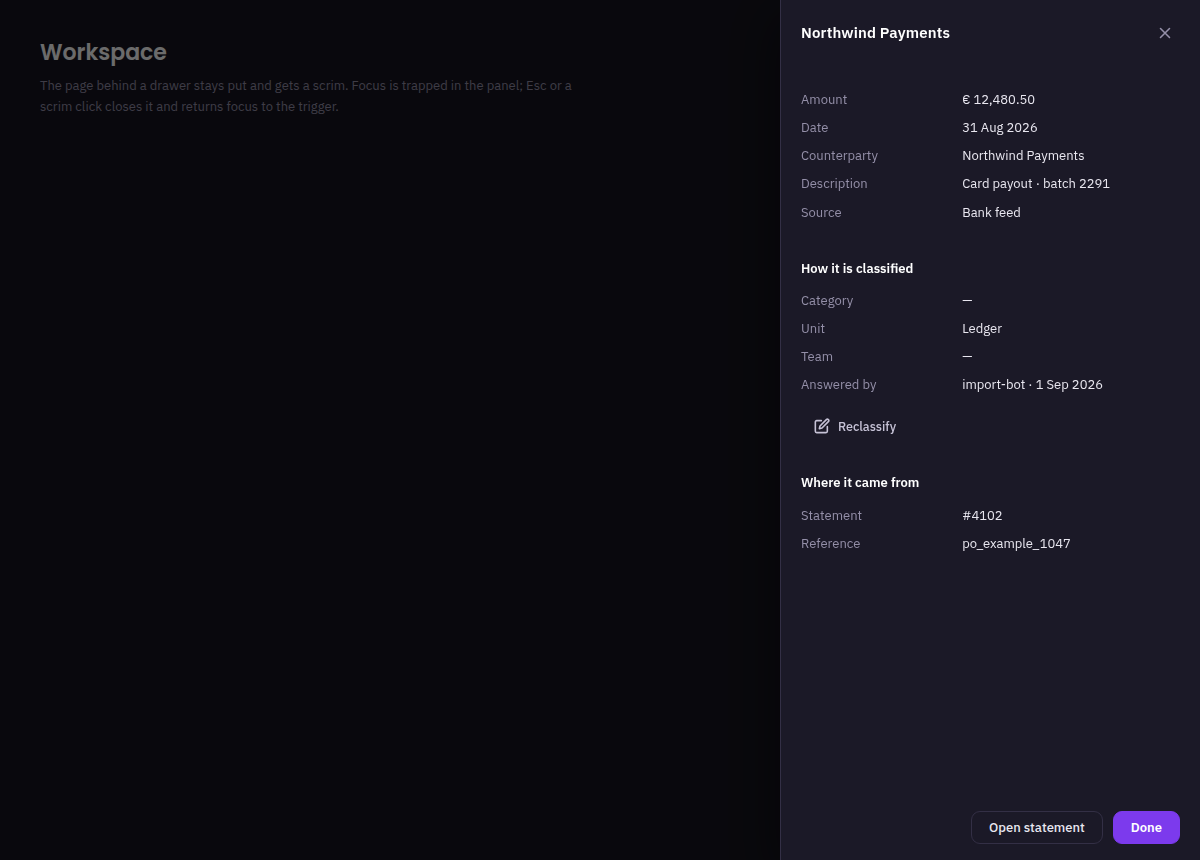
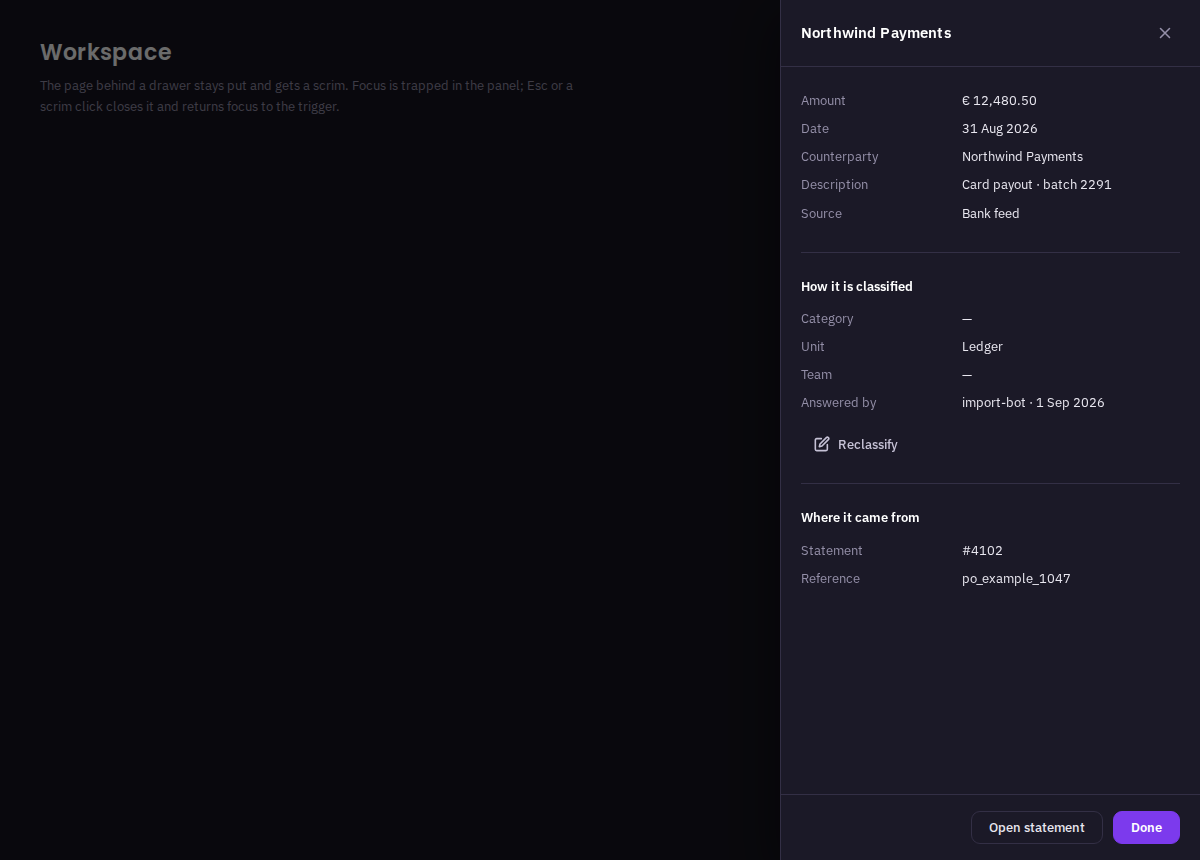
The drawer's default is B: the header's line, the footer's, and one between groups
Artur picked B over A on 2026-09-11, from the rendered variants. A drawer's
normal state is a long record scrolling under its header, and B is the one
variant that stays framed while it does.

The header and footer keep the rules they had on main, so that part of the
drawer is unchanged from before this branch. Inside the body one rule parts a
group from the group above it, inset by the body's padding; rows are still held
apart by space alone.

The gate reads the three lines in both directions now. A ruled row, an <hr>, a
card and an edge the body draws for itself still fail; so does the header's
line gone, the footer's gone, or a group with none above it. The group
separator is the one border it excepts, and only a top edge with no bottom one
counts as that. Four mutations run on this tree turn it red: the separator
deleted, the header's rule deleted, a rule under every row, and a box around
every group.

Every drawer evidence image that showed the shipped look is re-shot in both
themes, from the same stories, in Chrome.

Claude-Session: https://claude.ai/code/session_0175m4WP2k4H47LWVnAmsHXA

diff --git a/stories/drawer-rules.test.js b/stories/drawer-rules.test.js
@@ -1,13 +1,15 @@
-/* Rule: nothing inside a drawer panel draws a line or a box of its own (#272) — no
- * card, no ruled row, no <hr>, and no line between the header, the body and the footer.
+/* Rule: a drawer panel draws three lines and no others (#272) — one under its header,
+ * one over its footer, and one between each group and the next. No card, no ruled row,
+ * no <hr>, and no edge the body draws for itself.
  *
  * Every story is rendered in both themes into a jsdom carrying the kit's stylesheets,
  * and every panel that comes out is measured, cascade resolved. A card is `.ui-card`,
  * or any box inside the panel with all four edges drawn that is not a form control or
  * a button and does not sit inside one. A ruled row is anything else inside the panel
- * with a line on its top or bottom edge that does not also draw both sides. The lines
- * between the parts are the header's bottom edge, the footer's top edge and the body's
- * top and bottom edges.
+ * with a line on its top or bottom edge that does not also draw both sides — the group
+ * separator excepted, which is a `.ui-drawer__section` following another and drawing a
+ * line on its top edge alone. The gate reads the three lines both ways: a line the
+ * panel should not draw fails, and so does one of the three gone missing.
  *
  * jsdom drops logical border properties, so `border-block-end` computes to nothing:
  * they are rewritten to physical ones before any CSS goes in, for the horizontal,
@@ -15,6 +17,8 @@
  *
  * Ledger, what a pass does not say:
  * - Nothing about a drawer a consumer fills outside this repo.
+ * - Nothing about how far apart the groups sit, or how heavy the three lines are: this
+ *   reads whether a border is drawn, not the space or the colour around it.
  * - A line drawn by an inset box-shadow, an outline, a background or a pseudo-element
  *   is not read: jsdom computes no style for ::before or ::after.
  * - A logical border is read as horizontal, left-to-right writing puts it; in a
@@ -92,37 +96,61 @@ const CONTROL = 'input, select, textarea, button, a[href], [role="button"], [rol
   + '[role="radio"], [role="textbox"], [role="combobox"], [contenteditable]';
 const SLOT = '.ui-drawer__header, .ui-drawer__body, .ui-drawer__footer';
 
-/** What one panel draws inside itself, as plain data. */
+/** A group that follows another group: the one element inside the body allowed a line. */
+const follows = (el) => el.classList.contains('ui-drawer__section')
+  && !!el.previousElementSibling?.classList?.contains('ui-drawer__section');
+
+/** What one panel draws inside itself, and what it fails to draw, as plain data. */
 function measure(win, panel, where) {
   const style = (el) => win.getComputedStyle(el);
   const inside = [...panel.querySelectorAll('*')].filter((el) => !el.matches(SLOT));
   const hr = (el) => el.tagName === 'HR' && style(el).display !== 'none';
   const edge = (sel, side, said) => [...panel.querySelectorAll(sel)].filter((el) => drawn(style(el), side)).map(() => said);
+  const lacks = (sel, side, said) => [...panel.querySelectorAll(sel)].filter((el) => !drawn(style(el), side)).map(() => said);
+  // A group separator is a line on the top edge and nothing else. A group that draws
+  // its bottom edge too puts two lines in one gap, so it stays a ruled row.
+  const separator = (el) => follows(el) && drawn(style(el), 'top') && !drawn(style(el), 'bottom');
   return {
     where,
     cards: inside
       .filter((el) => el.classList.contains('ui-card') || (!hr(el) && !el.closest(CONTROL) && fourSided(style(el))))
       .map((el) => selectorPath(el)),
-    ruledRows: inside.filter((el) => hr(el) || isRule(style(el))).map((el) => selectorPath(el)),
-    edges: [
-      ...edge('.ui-drawer__header', 'bottom', 'a line under the header'),
-      ...edge('.ui-drawer__body', 'top', 'a line on the body\'s top edge, under the header'),
-      ...edge('.ui-drawer__body', 'bottom', 'a line on the body\'s bottom edge, over the footer'),
-      ...edge('.ui-drawer__footer', 'top', 'a line over the footer'),
+    ruledRows: inside
+      .filter((el) => hr(el) || (isRule(style(el)) && !separator(el)))
+      .map((el) => selectorPath(el)),
+    strayEdges: [
+      ...edge('.ui-drawer__body', 'top', 'a line on the body\'s top edge, under the header\'s own'),
+      ...edge('.ui-drawer__body', 'bottom', 'a line on the body\'s bottom edge, under the footer\'s own'),
     ],
+    unframed: [
+      ...lacks('.ui-drawer__header', 'bottom', 'a header with no line under it'),
+      ...lacks('.ui-drawer__footer', 'top', 'a footer with no line over it'),
+    ],
+    unparted: inside.filter((el) => follows(el) && !drawn(style(el), 'top')).map((el) => selectorPath(el)),
   };
 }
 
+// Two groups, the shape the separator is about, for the faults that need one.
+const GROUPS = '<section class="ui-drawer__section"><h3 class="ui-drawer__section-title">One</h3>'
+  + '<dl class="ui-drawer__rows"><div class="ui-drawer__row"><dt>Amount</dt><dd>12.00</dd></div></dl></section>'
+  + '<section class="ui-drawer__section"><h3 class="ui-drawer__section-title">Two</h3>'
+  + '<dl class="ui-drawer__rows"><div class="ui-drawer__row"><dt>Source</dt><dd>Bank feed</dd></div></dl></section>';
+
 // Each fault written on purpose, so a pass reads "looked, and found none" rather than
-// "could not see". Drawn the way a page would draw it by hand, one per panel.
+// "could not see". Drawn the way a page would draw it by hand, one per panel. The last
+// three take a line away instead of adding one: the header's, the footer's and the one
+// between the groups are the three this drawer is supposed to have.
 const FAULTS = [
-  { fault: 'a line under the header', kind: 'edges', css: '.zz-fault .ui-drawer__header { border-bottom: 1px solid var(--border); }' },
-  { fault: 'a line over the footer', kind: 'edges', css: '.zz-fault .ui-drawer__footer { border-top: 1px solid var(--border); }' },
-  { fault: 'a line on the body\'s top edge', kind: 'edges', css: '.zz-fault .ui-drawer__body { border-top: 1px solid var(--border); }' },
-  { fault: 'a logical line under the header', kind: 'edges', css: '.zz-fault .ui-drawer__header { border-block-end: 1px solid var(--border); }' },
+  { fault: 'a line on the body\'s top edge', kind: 'strayEdges', css: '.zz-fault .ui-drawer__body { border-top: 1px solid var(--border); }' },
+  { fault: 'a rule under every row', kind: 'ruledRows', body: GROUPS, css: '.zz-fault .ui-drawer__row dt, .zz-fault .ui-drawer__row dd { border-bottom: 1px solid var(--border); }' },
+  { fault: 'a logical rule under a group', kind: 'ruledRows', body: GROUPS, css: '.zz-fault .ui-drawer__section { border-block-end: 1px solid var(--border); }' },
+  { fault: 'a rule over the first group, where there is nothing to part it from', kind: 'ruledRows', body: GROUPS, css: '.zz-fault .ui-drawer__section { border-top: 1px solid var(--border); }' },
   { fault: 'a ruled title', kind: 'ruledRows', css: '.zz-fault .ui-drawer__title { border-bottom: 1px solid var(--border); }' },
   { fault: 'an <hr> in the body', kind: 'ruledRows', body: '<p>Above</p><hr><p>Below</p>' },
   { fault: 'a box drawn by hand', kind: 'cards', body: '<div style="border: 1px solid var(--border); padding: 12px">Boxed</div>' },
+  { fault: 'the header\'s line taken away', kind: 'unframed', css: '.zz-fault .ui-drawer__header { border-bottom: 0; }' },
+  { fault: 'the footer\'s line taken away', kind: 'unframed', css: '.zz-fault .ui-drawer__footer { border-top: 0; }' },
+  { fault: 'the line between the groups taken away', kind: 'unparted', body: GROUPS, css: '.zz-fault .ui-drawer__section + .ui-drawer__section { border-top: 0; }' },
 ];
 
 /** Every drawer panel in every story, split into subjects and don'ts, and the faults. */
@@ -213,16 +241,27 @@ for (const theme of THEMES) {
       offences, [],
       'an element inside a drawer draws a rule on its top or bottom edge, or is an <hr>. Rows are held '
       + 'apart by space, and each value sits beside its label so nothing has to lead the eye '
-      + 'across:\n  ' + offences.join('\n  '),
+      + 'across. The one line the body draws parts a group from the group above it:\n  '
+      + offences.join('\n  '),
     );
   });
 
-  test(`[${theme}] no drawer draws a line between its header, body and footer`, () => {
-    const offences = subjects.flatMap((s) => s.edges.map((e) => `${s.where}  ${e}`));
+  test(`[${theme}] every drawer is framed: a line under the header, one over the footer, none the body draws`, () => {
+    const offences = subjects.flatMap((s) => [...s.unframed, ...s.strayEdges].map((e) => `${s.where}  ${e}`));
     assert.deepStrictEqual(
       offences, [],
-      'a drawer draws a line between its header or footer and its body. The panel\'s edge is the '
-      + 'only line a drawer draws:\n  ' + offences.join('\n  '),
+      'a drawer has lost the line under its header or over its footer, or the body has drawn an edge of '
+      + 'its own. Those two lines are what say where a scrolling body ends, and they belong to the '
+      + 'header and the footer:\n  ' + offences.join('\n  '),
+    );
+  });
+
+  test(`[${theme}] one line parts each group from the group above it`, () => {
+    const offences = subjects.flatMap((s) => s.unparted.map((p) => `${s.where}  ${p}`));
+    assert.deepStrictEqual(
+      offences, [],
+      'a group follows another group with no line between them. A heading and space alone leave a long '
+      + 'record with nothing to divide it:\n  ' + offences.join('\n  '),
     );
   });
 

diff --git a/stories/guidelines/_drawer.js b/stories/guidelines/_drawer.js
@@ -4,7 +4,7 @@ import { drawer, drawerSection } from '../../src/components/drawer.js';
 
 export const TITLE = 'Drawers';
 
-export const BLURB = 'When to open a panel over the list, and how little it needs to separate its parts.';
+export const BLURB = 'When to open a panel over the list, and how few lines it needs to separate its parts.';
 
 // A drawer is position: fixed, so each specimen is held inside a frame of its
 // own. The panel is narrowed so a strip of scrim shows beside it: a drawer with
@@ -54,8 +54,8 @@ export const RULES = [
     imperative: 'Group a drawer\'s content under headings. Never put a card inside one.',
     doHtml: () => frame(GROUPS.map((g) => drawerSection(g)).join('')),
     dontHtml: () => frame(GROUPS.map((g) => card({ body: drawerSection(g) })).join('')),
-    doCaption: 'Three groups, each a heading over its rows. The panel is the container, and a '
-      + 'heading is all the structure a group needs inside it.',
+    doCaption: 'Three groups, each a heading over its rows, parted by one line. The panel is the '
+      + 'container, and a heading is all the structure a group needs inside it.',
     dontCaption: 'The same groups, each in a card: a box inside the panel\'s box, and every card '
       + 'edge is one more line to read past.',
     why: 'The panel already has an edge, a surface and a shadow, which is everything a card would '
@@ -64,18 +64,23 @@ export const RULES = [
       + 'bordered cards stacked in a bordered panel.',
     kit: [
       { ref: 'src/components/drawer.js:88', pattern: 'export function drawerSection(' },
-      { ref: 'src/styles/drawer.css:177', pattern: '.ui-drawer__section + .ui-drawer__section' },
+      { ref: 'src/styles/drawer.css:185', pattern: '.ui-drawer__section + .ui-drawer__section' },
     ],
   },
   {
-    id: 'no-lines',
-    imperative: 'Draw no line inside the panel. Its edge is the only one.',
-    why: 'Not under the header, not over the footer, not between groups. The report in #272 was '
-      + 'about the lines, and every one of them was a line inside the panel. Fluent and shadcn draw '
-      + 'no header or footer rule; Primer draws its footer rule only when the body scrolls. The kit '
-      + 'takes the quiet side: the header holds its place by spacing and weight, and a long body '
-      + 'scrolls under it.',
-    kit: [{ ref: 'src/styles/drawer.css:110', pattern: '.ui-drawer__header {' }],
+    id: 'three-lines',
+    imperative: 'Draw three lines: under the header, over the footer, and one between each group '
+      + 'and the next. Draw no others.',
+    why: 'A drawer\'s normal state is a long record scrolling, and the two lines the header and '
+      + 'the footer hold are what say where that scrolling stops. Take them away and the first row '
+      + 'slides under the title with nothing to meet. Inside the body the line has one job left, '
+      + 'which is parting a group from the group above it; a rule under every row is the fault #272 '
+      + 'reported. Ant and Primer keep a header and footer rule, Primer\'s once the body scrolls; '
+      + 'Material draws a divider between unrelated sections and none inside one.',
+    kit: [
+      { ref: 'src/styles/drawer.css:114', pattern: '.ui-drawer__header {' },
+      { ref: 'src/styles/drawer.css:185', pattern: '.ui-drawer__section + .ui-drawer__section {' },
+    ],
   },
   {
     id: 'rows',
@@ -96,7 +101,7 @@ export const RULES = [
       + 'table() and right-align them there.',
     kit: [
       { ref: 'src/components/drawer.js:92', pattern: '<dl class="ui-drawer__rows">' },
-      { ref: 'src/styles/drawer.css:200', pattern: '.ui-drawer__row dt { color: var(--muted); }' },
+      { ref: 'src/styles/drawer.css:212', pattern: '.ui-drawer__row dt { color: var(--muted); }' },
     ],
   },
 ];

diff --git a/src/styles/drawer.css b/src/styles/drawer.css
@@ -107,12 +107,17 @@
 .ui-drawer--top.ui-drawer--lg, .ui-drawer--bottom.ui-drawer--lg { --drawer-h: 72vh; }
 
 /* -- Slots ----------------------------------------------------------------- */
+/* The header keeps its rule, and the footer keeps its. A drawer's normal state is a
+   long record scrolling, and those two lines are what say where the scrolling body
+   ends: the one place inside the panel a line still earns.
+   why: docs/specification.md#the-drawer */
 .ui-drawer__header {
   display: flex;
   align-items: center;
   justify-content: space-between;
   gap: 12px;
   padding: 18px 20px;
+  border-bottom: 1px solid var(--border);
   flex: none;
 }
 /* An h2, and base.css would give it the display face. It opts out: at 15px in a
@@ -165,6 +170,7 @@
   justify-content: flex-end;
   gap: 10px;
   padding: 16px 20px;
+  border-top: 1px solid var(--border);
   background: var(--surface-2);
   flex: none;
 }
@@ -172,9 +178,15 @@
 /* -- Groups and rows ------------------------------------------------------- */
 /* drawerSection(): a heading over label/value rows. The value sits beside its
    label rather than at the far edge, so nothing has to lead the eye across the
-   panel, and rows are held apart by space alone.
+   panel, and rows are held apart by space alone. Group from group is the one
+   division inside the body worth a line; the body's padding insets it, so it
+   parts the groups without cutting the panel in two.
    why: docs/specification.md#the-drawer */
-.ui-drawer__section + .ui-drawer__section { margin-top: var(--space-8); }
+.ui-drawer__section + .ui-drawer__section {
+  margin-top: var(--space-6);
+  padding-top: var(--space-6);
+  border-top: 1px solid var(--border);
+}
 /* An h3, and it opts out of the display face for the reason .ui-drawer__title does.
    why: docs/specification.md#typefaces */
 .ui-drawer__section-title {

diff --git a/stories/components/Drawer.stories.js b/stories/components/Drawer.stories.js
@@ -79,8 +79,9 @@ export const Sizes = {
 };
 
 // ---- A record: the drawer's default look (#272) ----------------------
-// Groups under headings, each value beside its label, and no line anywhere
-// inside the panel. One fabricated transaction.
+// Groups under headings, each value beside its label, and the panel's three
+// lines: under the header, over the footer, one between each group and the
+// next. One fabricated transaction.
 const RECORD = [
   { rows: [
     ['Amount', '€ 12,480.50'], ['Date', '31 Aug 2026'], ['Counterparty', 'Northwind Payments'],

diff --git a/stories/guidelines/_motion.js b/stories/guidelines/_motion.js
@@ -65,7 +65,7 @@ export const RULES = [
     kit: [
       { ref: 'src/styles/reduced-motion.css:15', pattern: 'animation-duration: 0.01ms !important;' },
       { ref: 'src/styles/reduced-motion.css:17', pattern: 'transition-duration: 0.01ms !important;' },
-      { ref: 'src/styles/drawer.css:210', pattern: '.ui-drawer.is-open * { transition: none !important; }' },
+      { ref: 'src/styles/drawer.css:222', pattern: '.ui-drawer.is-open * { transition: none !important; }' },
     ],
   },
 ];

diff --git a/docs/specification.md b/docs/specification.md
@@ -627,9 +627,11 @@ it the keyboard.
 and value pairs, so a screen reader hears each label with its value. The value sits beside its
 label rather than at the far edge of the panel, and no row carries a rule.
 
-**It draws no line inside itself.** There is no rule under the header, over the footer or between
-groups; the panel's edge is the only line. The header holds its place by spacing and weight, and a
-long body scrolls under it.
+**It draws three lines and no others.** One under the header, one over the footer, and one between
+each group and the next. A drawer's normal state is a long record scrolling, and the header's line
+and the footer's are what say where that scrolling stops. Inside the body the one division worth
+drawing is group from group, inset by the body's padding; no row carries a rule, and nothing else
+inside the panel draws one.
 
 **It moves on open and on close.** The panel slides in from the edge it is anchored to while the
 scrim fades, both on `--dur-med` and `--ease`. It leaves the same way. Under reduced motion both
@@ -639,11 +641,14 @@ Held by `stories/drawer-rules.test.js`. It renders every story in both themes in
 the kit's stylesheets and measures every drawer panel that comes out, cascade resolved. Anywhere
 inside the panel a card fails — `.ui-card`, or any box with all four edges drawn that is not a form
 control or a button and does not sit inside one — and so does an `<hr>`, and any element with a
-border on its top or bottom edge that does not also draw both sides. So does a line between the
-header, the body and the footer, on either side of it. Logical borders are read as the physical ones
-they are in horizontal, left-to-right writing. A specimen inside `[data-specimen="dont"]` is a
-picture of the fault rather than a subject; the gate uses those, and one fault of each kind it writes
-itself, to prove it can see every fault at all.
+border on its top or bottom edge that does not also draw both sides. The group separator is the one
+exception: a `.ui-drawer__section` that follows another and draws a line on its top edge alone. The
+gate reads the three lines in both directions, so a header with no line under it, a footer with none
+over it, a group with none above it, and an edge the body draws for itself each fail too. Logical
+borders are read as the physical ones they are in horizontal, left-to-right writing. A specimen
+inside `[data-specimen="dont"]` is a picture of the fault rather than a subject; the gate uses those,
+and one fault of each kind it writes itself — lines added and lines taken away — to prove it can see
+every fault at all.
 
 Decided in [#272](https://github.com/apliteni/apliteni-ui/issues/272) and
 [#271](https://github.com/apliteni/apliteni-ui/issues/271).
